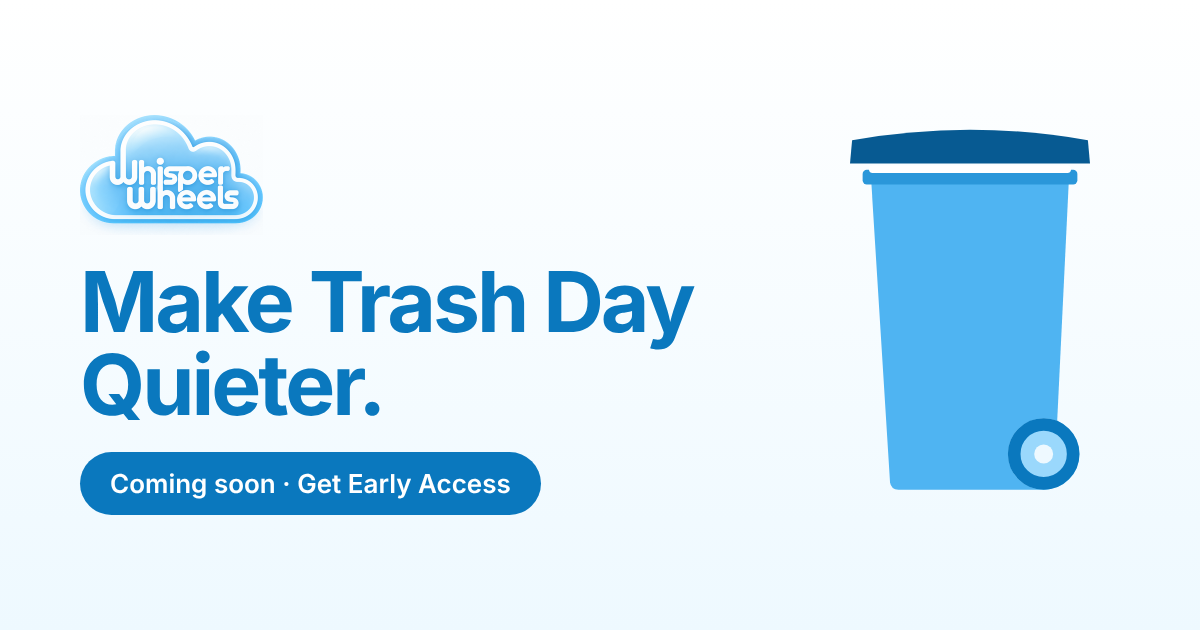
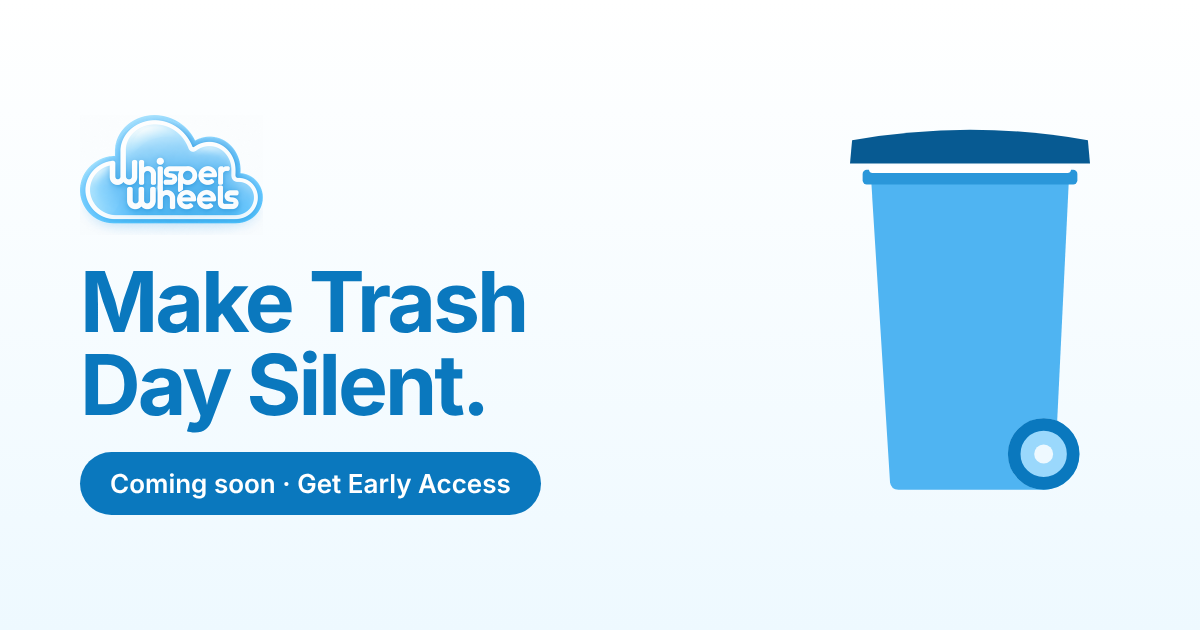
Use 'Make Trash Day Silent' in tab title, share text and share image
Claude-Session: https://claude.ai/code/session_01JmN7KH3wR1TXKxiFPh5Zuo

Changed region(s): [[0.0617, 0.5429, 0.4008, 0.6937], [0.4317, 0.4222, 0.5858, 0.573]]

diff --git a/index.html b/index.html
@@ -3,13 +3,13 @@
 <head>
 <meta charset="utf-8">
 <meta name="viewport" content="width=device-width, initial-scale=1, viewport-fit=cover">
-<title>Whisper Wheels — Make Trash Day Quieter</title>
+<title>Whisper Wheels — Make Trash Day Silent</title>
 <meta name="description" content="Whisper Wheels is a coming-soon noise-reduction kit for residential trash bins: two slip-on rubber wheel covers and one adhesive foam lid strip. Get early access.">
 <meta name="theme-color" content="#DDF3FF">
 <link rel="icon" href="/favicon.png" type="image/png">
 <link rel="apple-touch-icon" href="/apple-touch-icon.png">
 <meta property="og:type" content="website">
-<meta property="og:title" content="Whisper Wheels — Make Trash Day Quieter">
+<meta property="og:title" content="Whisper Wheels — Make Trash Day Silent">
 <meta property="og:description" content="A simple add-on kit for the trash bin you already own. Coming soon — get early access.">
 <meta property="og:image" content="https://whisperwheels.shop/og.png">
 <meta property="og:url" content="https://whisperwheels.shop/">
